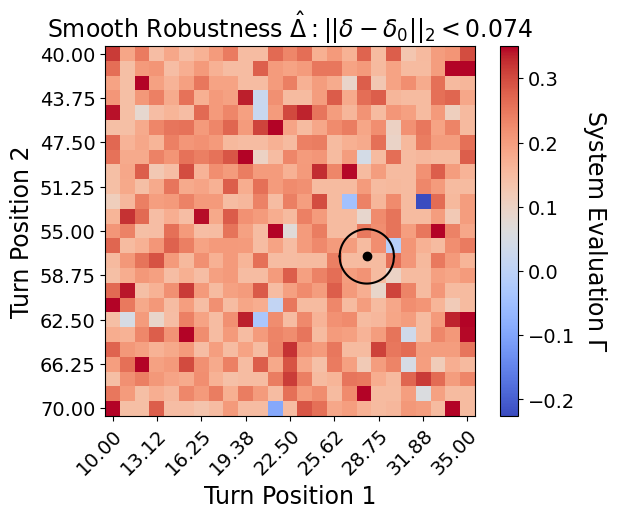
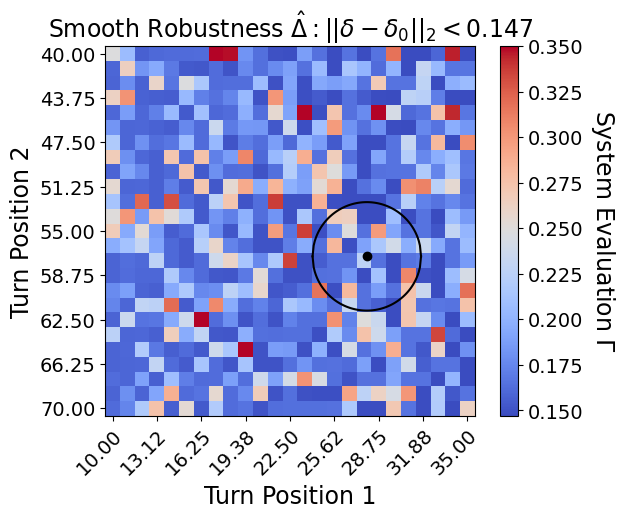
update LKA

diff --git a/scripts/smooth/LKA_RL.py b/scripts/smooth/LKA_RL.py
@@ -30,7 +30,7 @@ eng.InitBreach(nargout=0)
 turn_pos1 = [10, 35]
 turn_pos2 = [40, 70]
 env = DevLKA(eng, turn_pos1, turn_pos2, (27.19, 56.46))
-agent = RLAgent('LKA_PPO_Agent_9_18.mat')
+agent = RLAgent('LKA_DDPG_Agent_9_2.mat')
 phi = BreachSTL('alw (abs(lateral_deviation[t]) < 0.85)')
 
 prob = Problem(env, agent, phi, L2Norm(env))
